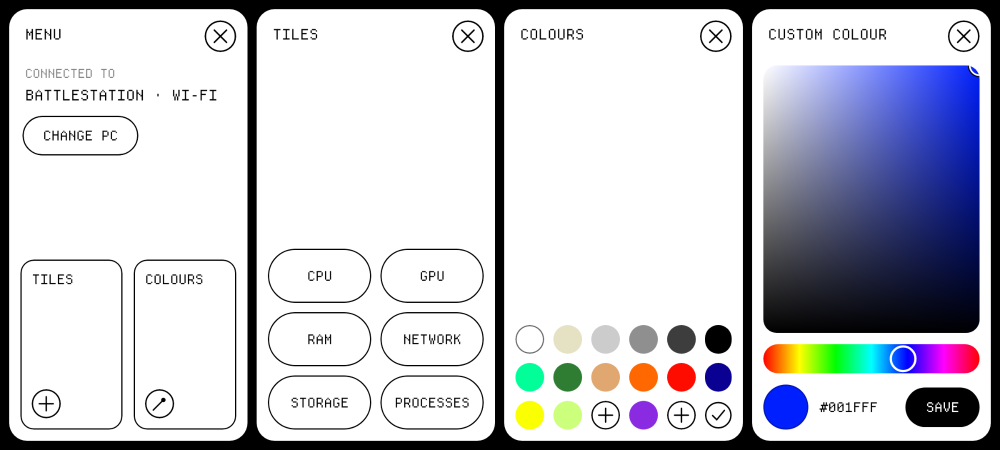
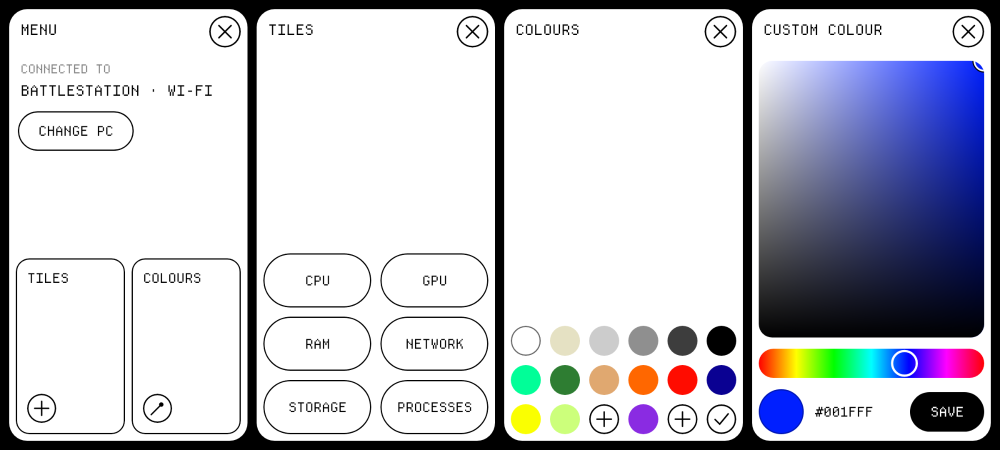
Tighten tile spacing and text to match the mockups
- Halve the gaps between tiles and the padding inside them; smaller labels
  and corner buttons, the same size on every tile.
- Readings use the font's own degree sign, pulled in against the digits,
  and are centred in the tile.
- The chip name on wide tiles wraps only if it would reach the gauge.
- Dot grid sizes its dots by tile height, like the mockups.
- Drop the bottom-left colour button (not in the reference design); corner
  buttons get accessibility labels.

Claude-Session: https://claude.ai/code/session_01SeN6n3ZLVNTU839hegM4VZ

diff --git a/android/app/src/main/java/com/myty/monitor/ui/Tiles.kt b/android/app/src/main/java/com/myty/monitor/ui/Tiles.kt
@@ -23,6 +23,7 @@ import androidx.compose.foundation.layout.offset
 import androidx.compose.foundation.layout.padding
 import androidx.compose.foundation.layout.size
 import androidx.compose.foundation.layout.width
+import androidx.compose.foundation.layout.widthIn
 import androidx.compose.foundation.shape.RoundedCornerShape
 import androidx.compose.material3.Text
 import androidx.compose.runtime.Composable
@@ -39,7 +40,11 @@ import androidx.compose.ui.graphics.Path
 import androidx.compose.ui.graphics.StrokeCap
 import androidx.compose.ui.graphics.drawscope.Stroke
 import androidx.compose.ui.graphics.drawscope.clipRect
+import androidx.compose.ui.text.SpanStyle
+import androidx.compose.ui.text.buildAnnotatedString
 import androidx.compose.ui.text.style.TextOverflow
+import androidx.compose.ui.text.withStyle
+import androidx.compose.ui.unit.em
 import androidx.compose.ui.unit.Dp
 import androidx.compose.ui.unit.dp
 import androidx.compose.ui.unit.sp
@@ -112,24 +117,32 @@ fun TileContent(tile: Tile, data: TileData, chrome: Boolean, modifier: Modifier 
 
 // ---- Shared pieces -------------------------------------------------------------------------------
 
-private fun labelSize(size: TileSize) = if (size == TileSize.Tiny) 10.sp else 12.sp
-private fun pad(size: TileSize): Dp = if (size == TileSize.Tiny) 8.dp else 12.dp
+@Suppress("UNUSED_PARAMETER")
+private fun labelSize(size: TileSize) = 10.sp
+private fun pad(size: TileSize): Dp = if (size == TileSize.Tiny) 4.dp else 6.dp
 
-/** Corner labels: name top-left, load top-right, model bottom-left. */
+/**
+ * Corner labels: name top-left, load top-right, model bottom-left.
+ * [circle] is the width of a centred gauge; the model name wraps onto two lines only if it would reach it.
+ */
 @Composable
-private fun BoxScope.Labels(size: TileSize, g: Gauge, chrome: Boolean, color: Color = Myty.White, full: Boolean = true) {
+private fun BoxScope.Labels(size: TileSize, g: Gauge, chrome: Boolean, color: Color = Myty.White, circle: Dp? = null) {
     AnimatedVisibility(chrome, Modifier.matchParentSize(), enter = fadeIn(), exit = fadeOut()) {
-        Box(Modifier.fillMaxSize().padding(pad(size))) {
+        BoxWithConstraints(Modifier.fillMaxSize().padding(pad(size))) {
+            // On a large tile the gauge sits above the name, so only wide tiles need to dodge it.
+            val nameWidth = if (circle != null && size == TileSize.Wide) {
+                ((maxWidth + pad(size) * 2 - circle) / 2 - pad(size) - 6.dp).coerceAtLeast(40.dp)
+            } else maxWidth
             val fs = labelSize(size)
-            val top = if (full && size == TileSize.Large && g.clock != null) "${g.label}  ${g.clock}" else g.label
+            val top = if (size == TileSize.Large && g.clock != null) "${g.label}  ${g.clock}" else g.label
             Text(top, color = color, fontSize = fs, maxLines = 1, modifier = Modifier.align(Alignment.TopStart))
-            if (full && size.w == 2 && g.load != null) {
+            if (size.w == 2 && g.load != null) {
                 Text(g.load, color = color, fontSize = fs, maxLines = 1, modifier = Modifier.align(Alignment.TopEnd))
             }
-            if (full && size.w == 2 && g.name != null) {
+            if (size.w == 2 && g.name != null) {
                 Text(
                     g.name, color = color, fontSize = fs, maxLines = 2, overflow = TextOverflow.Ellipsis,
-                    modifier = Modifier.align(Alignment.BottomStart).fillMaxWidth(if (size == TileSize.Large) 1f else 0.4f),
+                    modifier = Modifier.align(Alignment.BottomStart).widthIn(max = nameWidth),
                 )
             }
         }
@@ -147,19 +160,17 @@ private fun TwoTone(splitPx: Float, content: @Composable (inside: Boolean) -> Un
     }
 }
 
-/** Big reading. A trailing "°" is drawn as a ring; the font's pixel degree sign looks like a cross when large. */
+/** Big reading, e.g. "68°". The font is monospaced, so pull the degree sign in against the digits. */
 @Composable
 private fun Value(text: String, fontSize: Float, color: Color = Myty.White, modifier: Modifier = Modifier) {
-    val degree = text.endsWith("°")
-    Row(modifier) {
-        Text(if (degree) text.dropLast(1) else text, color = color, fontSize = fontSize.sp, maxLines = 1)
-        if (degree) {
-            Canvas(Modifier.padding(start = (fontSize * 0.08f).dp, top = (fontSize * 0.12f).dp).size((fontSize * 0.3f).dp)) {
-                val sw = this.size.minDimension * 0.26f
-                drawCircle(color, this.size.minDimension / 2 - sw / 2, style = Stroke(sw))
-            }
-        }
+    val styled = buildAnnotatedString {
+        if (text.endsWith("°") && text.length >= 2) {
+            append(text.dropLast(2))
+            withStyle(SpanStyle(letterSpacing = (-0.3).em)) { append(text[text.length - 2]) }
+            append("°")
+        } else append(text)
     }
+    Text(styled, color = color, fontSize = fontSize.sp, maxLines = 1, softWrap = false, modifier = modifier)
 }
 
 // ---- Style 1: ring -------------------------------------------------------------------------------
@@ -178,8 +189,8 @@ private fun RingTile(size: TileSize, g: Gauge, chrome: Boolean) {
             // Starts at the bottom and runs clockwise as the temperature rises.
             if (f > 0.002f) drawArc(accent, 90f, 360f * f, false, tl, arc, style = Stroke(sw, cap = StrokeCap.Round))
         }
-        Value(g.value, d.value * 0.2f)
-        Labels(size, g, chrome)
+        Value(g.value, d.value * 0.25f)
+        Labels(size, g, chrome, circle = d)
     }
 }
 
@@ -197,12 +208,11 @@ private fun FillTile(size: TileSize, g: Gauge, chrome: Boolean) {
         val fillW = maxWidth * f
         Box(Modifier.fillMaxHeight().width(fillW).clip(RoundedCornerShape(Myty.Radius)).background(accent))
         val split = with(androidx.compose.ui.platform.LocalDensity.current) { fillW.toPx() }
-        val big = minOf(maxWidth.value * 0.24f, maxHeight.value * 0.3f, 96f)
-        val nudge = if (size.w == 2) maxWidth * 0.12f else 0.dp
+        // Same size on every tile width (it's set by one column), so tiles read alike side by side.
+        val big = minOf(maxWidth.value / size.w * 0.25f, maxHeight.value * 0.55f)
         TwoTone(split) { inside ->
             Box(Modifier.fillMaxSize()) {
-                Value(g.value, big, color = if (inside) on else accent,
-                    modifier = Modifier.align(Alignment.Center).offset(x = nudge))
+                Value(g.value, big, color = if (inside) on else accent, modifier = Modifier.align(Alignment.Center))
                 Labels(size, g, chrome, color = if (inside) on else Myty.White)
             }
         }
@@ -224,8 +234,8 @@ private fun OrbitTile(size: TileSize, g: Gauge, chrome: Boolean) {
             val ball = center + Offset((r * cos(a)).toFloat(), (r * sin(a)).toFloat())
             drawCircle(accent, r * 0.16f, ball)
         }
-        Value(g.value, d.value * 0.2f, color = Color.Black)
-        Labels(size, g, chrome)
+        Value(g.value, d.value * 0.22f, color = Color.Black)
+        Labels(size, g, chrome, circle = d)
     }
 }
 
@@ -236,21 +246,29 @@ private fun DotsTile(size: TileSize, g: Gauge, chrome: Boolean) {
     val accent = LocalAccent.current
     val f by animateFloatAsState(g.fraction, springy, label = "dots")
     BoxWithConstraints(Modifier.fillMaxSize().padding(pad(size))) {
-        val cols = if (size.w == 2) 9 else 7
-        val pitch = maxWidth / cols
-        val rows = floor(maxHeight / pitch).toInt().coerceAtLeast(1)
-        // First cell holds the label, first cell of the last row holds the value.
-        val skip = setOf(0, (rows - 1) * cols)
+        // Dot size follows the tile's height, as in the mockups: about 9 rows on large, 4 on wide, 7 on small.
+        val targetRows = when (size) {
+            TileSize.Large -> 9
+            TileSize.Wide -> 4
+            TileSize.Small -> 7
+            TileSize.Tiny -> 3
+        }
+        val pitch = maxHeight / targetRows
+        val cols = floor(maxWidth / pitch).toInt().coerceAtLeast(1)
+        val rows = targetRows
+        // The label takes the first cell, the reading the start of the last row.
+        val valueCells = if (g.value.length > 3) 2 else 1
+        val skip = setOf(0) + (0 until valueCells).map { (rows - 1) * cols + it }
         val total = rows * cols - skip.size
         Canvas(Modifier.fillMaxSize()) {
             val p = pitch.toPx()
             val r = p * 0.36f
             val filled = Math.round(f * total)
             var n = 0
-            val top = (this.size.height - rows * p) / 2
+            val left = (this.size.width - cols * p) / 2
             for (i in 0 until rows * cols) {
                 if (i in skip) continue
-                val c = center.copy(x = (i % cols) * p + p / 2, y = top + (i / cols) * p + p / 2)
+                val c = center.copy(x = left + (i % cols) * p + p / 2, y = (i / cols) * p + p / 2)
                 if (n < filled) drawCircle(accent, r, c) else drawCircle(Myty.White, r - 0.6.dp.toPx(), c, style = Stroke(1.dp.toPx()))
                 n++
             }

diff --git a/android/app/src/main/java/com/myty/monitor/ui/HomeScreen.kt b/android/app/src/main/java/com/myty/monitor/ui/HomeScreen.kt
@@ -176,10 +176,6 @@ fun HomeScreen(
                 onStyle = { onTiles(TileLayout.cycleStyle(tiles, tile.id)) },
                 onClose = { selected = null; closing = closing + tile.id },
                 onResize = { onTiles(TileLayout.resize(tiles, grid, tile.id)) },
-                onColours = {
-                    val left = tile.col + tile.size.w / 2f <= grid.cols / 2f
-                    openMenu(if (left) MenuSide.Right else MenuSide.Left, MenuPage.Colours)
-                },
                 // Restart the detector if the grid changes (rotation) so it never uses stale cell sizes.
                 gestures = Modifier.pointerInput(tile.id, grid, cellW, cellH) {
                     detectDragGesturesAfterLongPress(
@@ -266,7 +262,6 @@ private fun TileHost(
     onStyle: () -> Unit,
     onClose: () -> Unit,
     onResize: () -> Unit,
-    onColours: () -> Unit,
     gestures: Modifier,
 ) {
     val x = remember { Animatable(rect.left) }
@@ -307,34 +302,27 @@ private fun TileHost(
     ) {
         TileContent(tile, data, chrome = !selected, modifier = Modifier.fillMaxSize())
         AnimatedVisibility(selected, Modifier.matchParentSize(), enter = fadeIn(), exit = fadeOut()) {
-            CornerButtons(tile, onStyle, onClose, onResize, onColours)
+            CornerButtons(tile, onStyle, onClose, onResize)
         }
     }
 }
 
 @Composable
-internal fun CornerButtons(tile: Tile, onStyle: () -> Unit, onClose: () -> Unit, onResize: () -> Unit, onColours: () -> Unit) {
+internal fun CornerButtons(tile: Tile, onStyle: () -> Unit, onClose: () -> Unit, onResize: () -> Unit) {
     val accent = LocalAccent.current
     val tiny = tile.size == TileSize.Tiny
-    val s = if (tiny) 20.dp else 26.dp
-    // On the fill style the left-hand buttons sit on the highlight colour.
+    val s = 18.dp
+    // On the fill style the style button sits on the highlight colour.
     val leftColor = if (tile.style == 2 && tile.kind.styles > 1) onColor(accent) else Myty.White
-    Box(Modifier.fillMaxSize().padding(if (tiny) 6.dp else 10.dp)) {
+    Box(Modifier.fillMaxSize().padding(if (tiny) 4.dp else 6.dp)) {
         if (tile.kind.styles > 1) {
             CircleIcon(Glyph.None, leftColor, s, Modifier.align(Alignment.TopStart).clickable(onClick = onStyle),
-                label = tile.style.toString())
+                label = tile.style.toString(), description = "Change style")
         }
-        CircleIcon(Glyph.Close, Myty.White, s, Modifier.align(Alignment.TopEnd).clickable(onClick = onClose))
-        CircleIcon(Glyph.Resize, Myty.White, s, Modifier.align(Alignment.BottomEnd).clickable(onClick = onResize))
-        if (!tiny) {
-            Box(
-                Modifier.align(Alignment.BottomStart).size(s).clip(CircleShape)
-                    .background(if (leftColor == Myty.White) accent else Color.Transparent)
-                    .clickable(onClick = onColours),
-            ) {
-                if (leftColor != Myty.White || accent == Myty.Tile) CircleIcon(Glyph.None, leftColor, s)
-            }
-        }
+        CircleIcon(Glyph.Close, Myty.White, s, Modifier.align(Alignment.TopEnd).clickable(onClick = onClose),
+            description = "Remove tile")
+        CircleIcon(Glyph.Resize, Myty.White, s, Modifier.align(Alignment.BottomEnd).clickable(onClick = onResize),
+            description = "Resize tile")
     }
 }
 

diff --git a/android/app/src/main/java/com/myty/monitor/ui/MenuPanel.kt b/android/app/src/main/java/com/myty/monitor/ui/MenuPanel.kt
@@ -77,7 +77,7 @@ fun MenuPanel(
             .background(Myty.White)
             // Swallow taps/swipes so they don't reach the tiles underneath.
             .pointerInput(Unit) { detectTapGestures { } }
-            .padding(10.dp),
+            .padding(6.dp),
     ) {
         AnimatedContent(page, transitionSpec = { fadeIn(tween(180)) togetherWith fadeOut(tween(120)) }, label = "menu") { p ->
             val title = when (p) {
@@ -119,7 +119,7 @@ private fun RootPage(state: UiState, onPage: (MenuPage) -> Unit, onChangePc: () 
         )
         Pill("CHANGE PC", onChangePc, filled = false, modifier = Modifier.padding(start = 2.dp))
         Spacer(Modifier.weight(1f))
-        Row(Modifier.fillMaxWidth().fillMaxHeight(0.62f), horizontalArrangement = Arrangement.spacedBy(10.dp)) {
+        Row(Modifier.fillMaxWidth().fillMaxHeight(0.62f), horizontalArrangement = Arrangement.spacedBy(6.dp)) {
             MenuCard("TILES", Glyph.Plus, Modifier.weight(1f)) { onPage(MenuPage.Tiles) }
             MenuCard("COLOURS", Glyph.Dropper, Modifier.weight(1f)) { onPage(MenuPage.Colours) }
         }

diff --git a/android/app/src/main/java/com/myty/monitor/ui/Icons.kt b/android/app/src/main/java/com/myty/monitor/ui/Icons.kt
@@ -15,6 +15,8 @@ import androidx.compose.ui.graphics.Path
 import androidx.compose.ui.graphics.StrokeCap
 import androidx.compose.ui.graphics.drawscope.DrawScope
 import androidx.compose.ui.graphics.drawscope.Stroke
+import androidx.compose.ui.semantics.contentDescription
+import androidx.compose.ui.semantics.semantics
 import androidx.compose.ui.unit.Dp
 import androidx.compose.ui.unit.dp
 import androidx.compose.ui.unit.sp
@@ -31,8 +33,14 @@ fun CircleIcon(
     modifier: Modifier = Modifier,
     label: String? = null,
     fill: Color? = null,
+    description: String? = null,
 ) {
-    Box(modifier.size(size).clip(CircleShape), contentAlignment = Alignment.Center) {
+    Box(
+        modifier.size(size).clip(CircleShape).then(
+            if (description != null) Modifier.semantics { contentDescription = description } else Modifier
+        ),
+        contentAlignment = Alignment.Center,
+    ) {
         Canvas(Modifier.size(size)) {
             val sw = (size.toPx() * 0.05f).coerceAtLeast(1.2f)
             if (fill != null) drawCircle(fill, radius = this.size.minDimension / 2)

diff --git a/android/app/src/test/java/com/myty/monitor/GestureTest.kt b/android/app/src/test/java/com/myty/monitor/GestureTest.kt
@@ -89,8 +89,7 @@ class GestureTest {
         rule.onRoot().at(0.12f, 0.25f) { longClick(it) } // RAM small
         rule.waitForIdle()
         rule.onNodeWithText("3").assertExists()
-        // Resize is bottom-right of the RAM tile; find it by position: tile spans x 0..~25%, y 0..~50%.
-        rule.onRoot().at(0.215f, 0.43f) { click(it) }
+        rule.onNodeWithContentDescription("Resize tile").performClick()
         rule.waitForIdle()
         assertEquals(TileSize.Wide, tiles.first { it.kind == TileKind.Ram }.size)
     }
@@ -115,7 +114,7 @@ class GestureTest {
         show()
         rule.onRoot().at(0.37f, 0.25f) { longClick(it) } // NETWORK small at col 1
         rule.waitForIdle()
-        rule.onRoot().at(0.47f, 0.07f) { click(it) } // its top-right X
+        rule.onNodeWithContentDescription("Remove tile").performClick()
         rule.mainClock.advanceTimeBy(1000)
         rule.waitForIdle()
         assertEquals(3, tiles.size)

diff --git a/android/app/src/main/java/com/myty/monitor/ui/Theme.kt b/android/app/src/main/java/com/myty/monitor/ui/Theme.kt
@@ -43,7 +43,7 @@ object Myty {
     val Font = FontFamily(Font(R.font.departure_mono))
 
     val Radius = 16.dp
-    val Gap = 10.dp
+    val Gap = 5.dp
 }
 
 /** The user's highlight colour. Everything blue in the design uses this. */

diff --git a/README.md b/README.md
@@ -69,7 +69,6 @@ The phone shows a grid of live tiles, inspired by Windows Phone. The grid is 4 c
   - top-left (number): next style
   - top-right (×): close the tile; its space stays empty
   - bottom-right (arrows): next size, smallest to biggest and back round
-  - bottom-left (dot): open the Colours menu
 - **Tap anywhere else** to put the tile back to normal.
 - **Long-press and drag** to move a tile. Tiles in the way jump into the space it left. If they don't fit there, they shrink to make room (for example, a large tile halves). Tiles next to the gap slide over to fill it. Let go to drop it.
 - **Swipe left or right** to open the menu on the other side of the screen:
